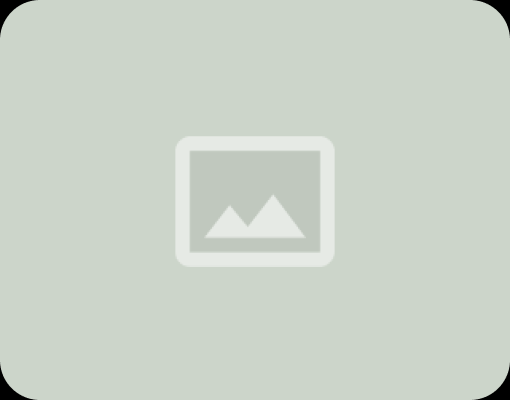
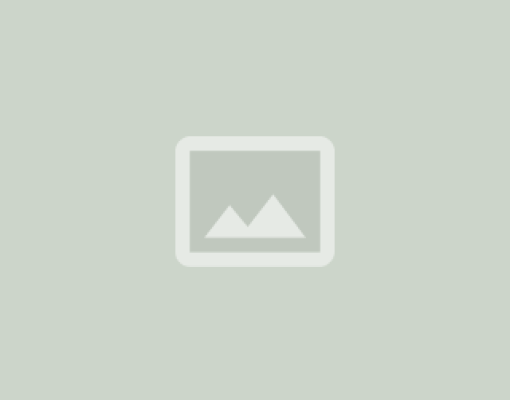
style: 調整 no image 圖片的樣式

diff --git a/src/pages/detailPage.vue b/src/pages/detailPage.vue
@@ -1,5 +1,5 @@
 <template>
-    <NewTitle :titleContent="title"/>
+  <NewTitle :titleContent="title" />
   <Layout>
     <main class="mx-auto mt-[60px] mb-[120px] min-h-[80vh] max-w-[1110px] px-[15px]">
       <!-- 麵包屑 -->
@@ -10,9 +10,9 @@
         :last-item="breadcrumbLastStr"
       />
       <section class="mb-[30px]">
-        <div class="h-[185px] overflow-hidden rounded-3xl md:h-[400px]">
+        <div class="h-[250px] overflow-hidden rounded-3xl bg-[#CCD5CA] md:h-[400px] flex justify-center">
           <img
-            class="h-full w-full object-cover"
+            class="w-30 object-cover"
             v-real-img="showDetailData.Picture"
             :src="showDetailData.Picture"
             :alt="showDetailData.Picture"
@@ -182,7 +182,7 @@
 
 <script>
 import { ref, onMounted } from 'vue';
-import { useRoute,  useRouter} from 'vue-router';
+import { useRoute, useRouter } from 'vue-router';
 import { getDetailByIDApi } from '@/api/tdx';
 import { getScenicSpotByCountyApi, getActivityByCountyApi, getRestaurantByCountyApi } from '@/api/tdx';
 import cityData from '@/services/cityData';
@@ -201,7 +201,7 @@ export default {
       },
     ]);
 
-    const title = ref('介紹')
+    const title = ref('介紹');
     const breadcrumbLastStr = ref('');
 
     const detailData = ref({});
@@ -319,7 +319,7 @@ export default {
       } catch (err) {
         console.dir(err);
         console.dir('無此頁面，即將跳轉回首頁');
-        router.push('/')
+        router.push('/');
       }
     };
 

diff --git a/src/components/ScrollTop.vue b/src/components/ScrollTop.vue
@@ -1,6 +1,7 @@
 <template>
   <div
-    class="scroll-top fixed flex cursor-pointer shadow-lg justify-center items-center p-5 bottom-10 right-10 text-zinc-50 bg-[#7f977b] hover:bg-[#ff725e] w-18 h-18"
+    ref="scrollBtn"
+    class="scroll-top w-12 h-12 fixed bottom-8 right-8 flex cursor-pointer items-center justify-center bg-[#7f977b] p-3 text-zinc-50 shadow-lg hover:bg-[#ff725e]"
     title="回到上方"
     @click="scrollTop"
   >
@@ -9,11 +10,15 @@
 </template>
 
 <script>
+import { ref, watch, computed } from 'vue';
+import { useScroll } from '@vueuse/core';
+
 export default {
   setup() {
     const scrollTop = () => {
       window.scrollTo({ top: 0, behavior: 'smooth' });
     };
+
     return { scrollTop };
   },
 };
